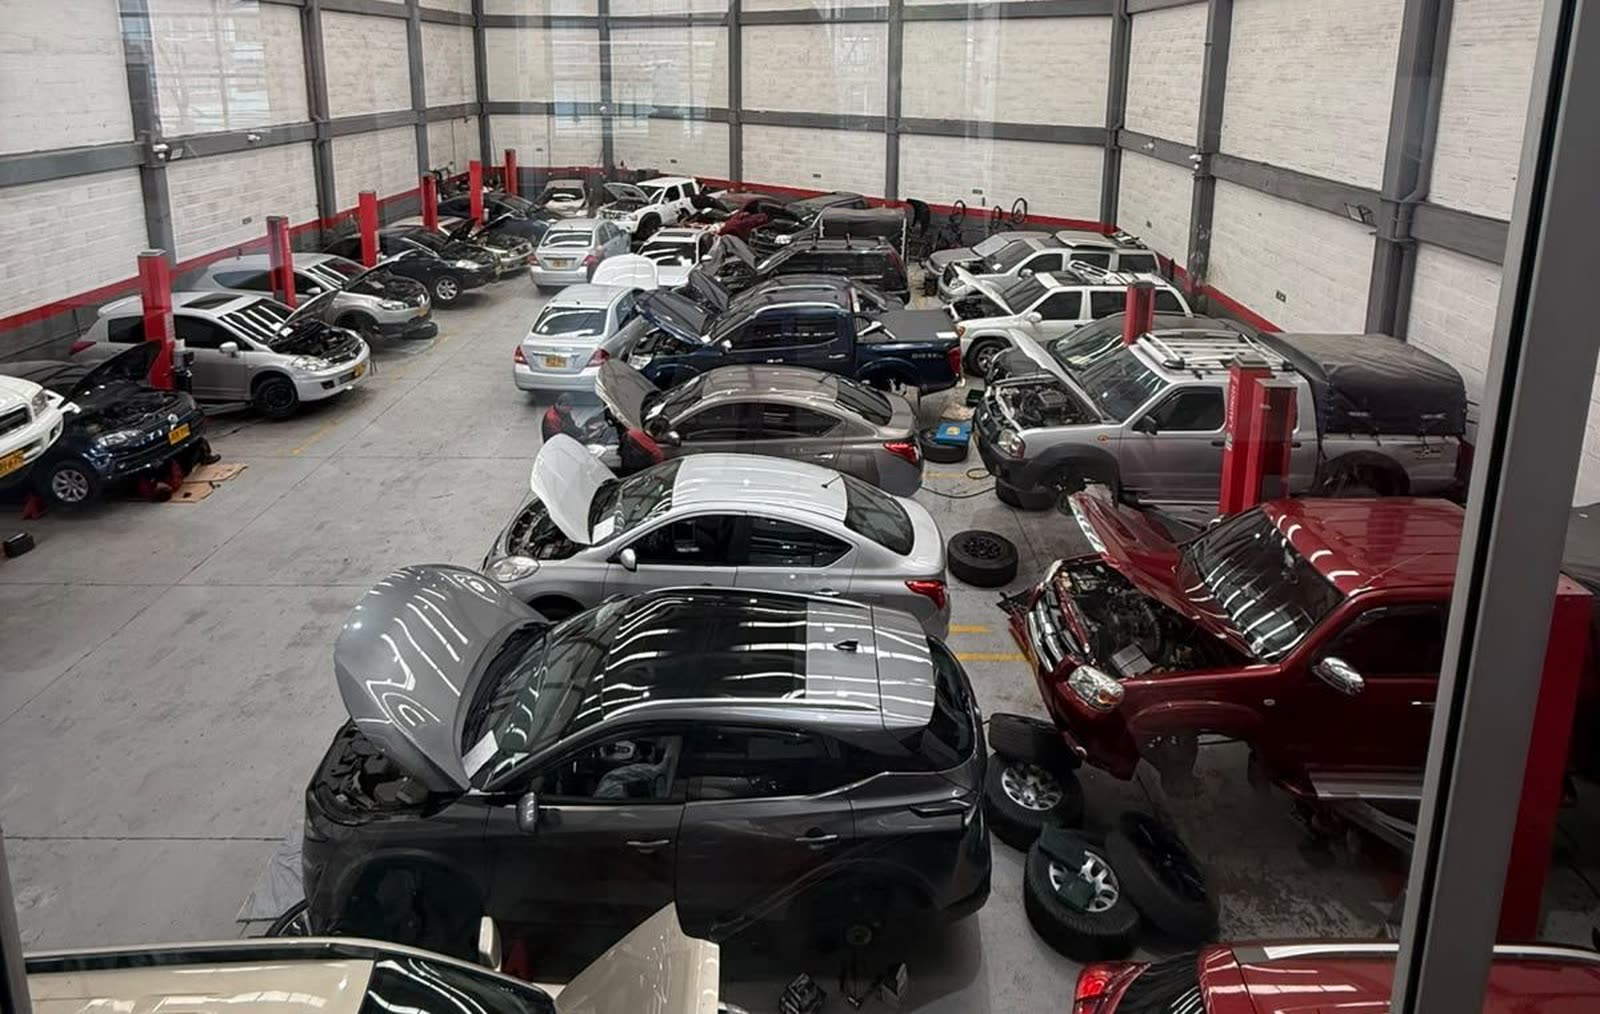
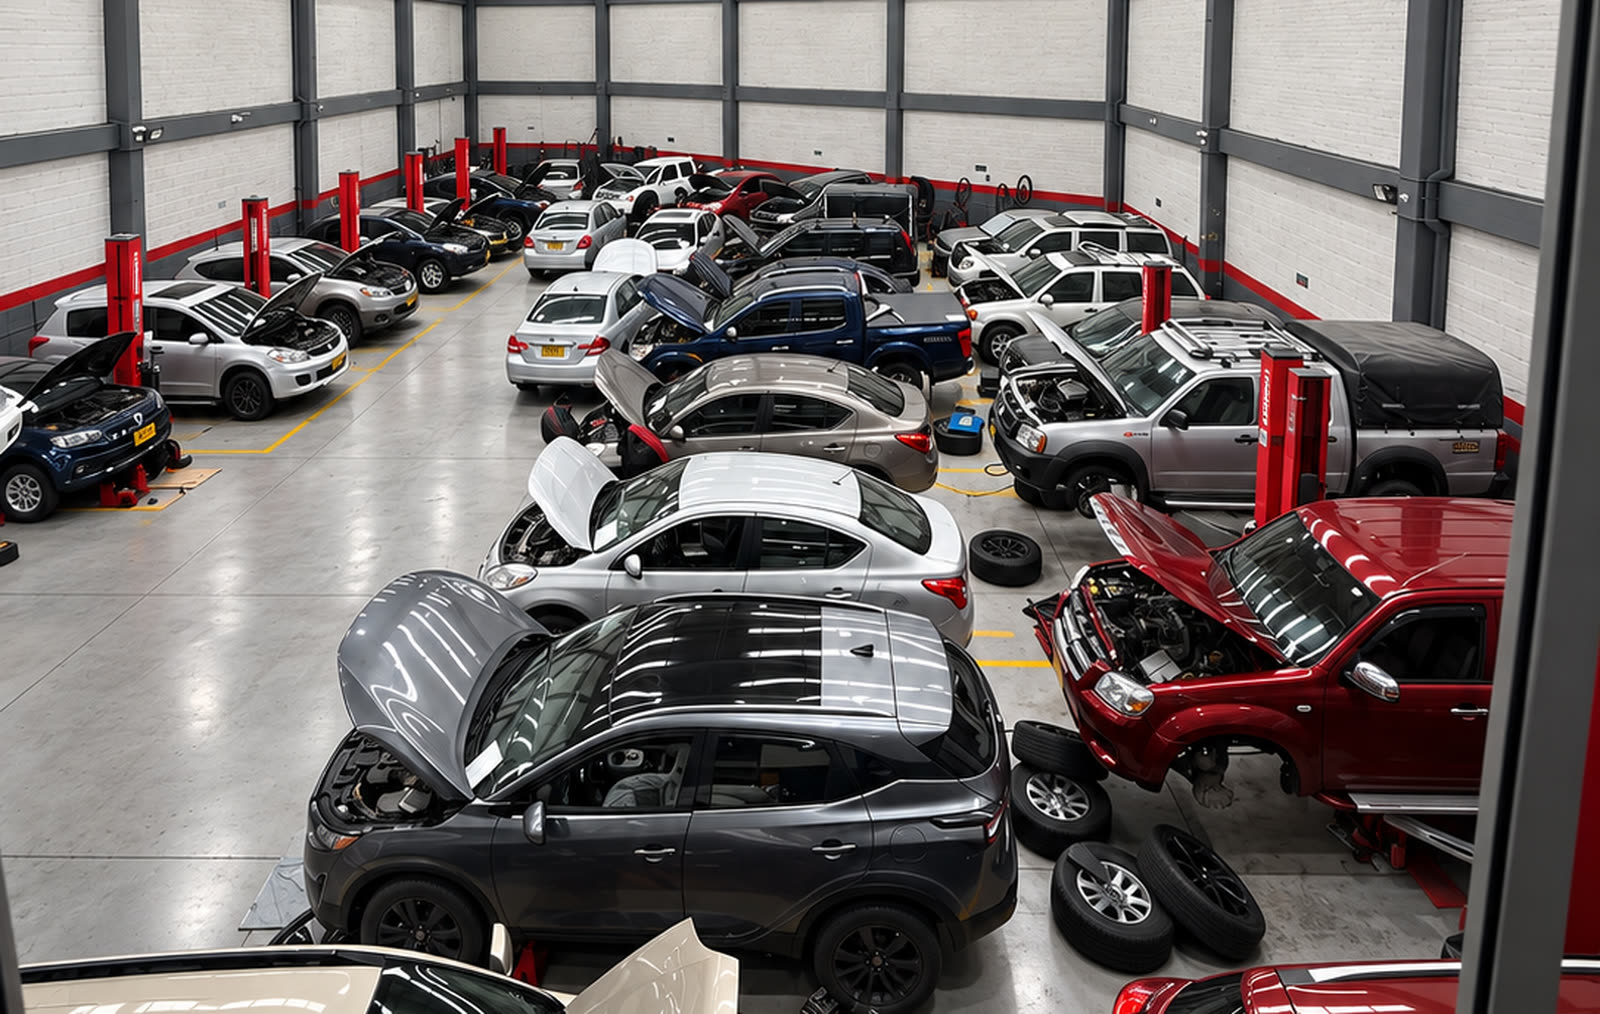
Swap in the retouched photos and turn the CTAs brand red
Replaces the bay, facade and team shots with the owner's retouched versions
(the team one now shows the whole staff) and drops the waiting-room image.
WhatsApp call-to-action buttons now use the brand red; the floating button
stays green, where green reads as the WhatsApp signal.

Claude-Session: https://claude.ai/code/session_014GMneRGxYmBqRQP8rwtT9y

diff --git a/site/index.html b/site/index.html
@@ -144,8 +144,10 @@ section[id]{scroll-margin-top:calc(var(--nav-h) + var(--aviso-h,0px) + 22px)}
   text-align:center;
 }
 .btn svg{width:18px;height:18px;flex:0 0 auto}
-.btn-wa{background:var(--wa);color:#04240F;box-shadow:0 8px 30px -12px rgba(37,211,102,.6)}
-.btn-wa:hover{background:var(--wa-hover);transform:translateY(-2px);box-shadow:0 14px 38px -12px rgba(37,211,102,.7)}
+/* Los llamados a la acción van en el rojo de la marca.
+   El botón flotante se queda verde, porque ahí el verde es la señal de WhatsApp. */
+.btn-wa{background:var(--rojo);color:#FFF3F3;box-shadow:0 8px 30px -12px rgba(225,27,34,.65)}
+.btn-wa:hover{background:#F5232B;transform:translateY(-2px);box-shadow:0 14px 38px -12px rgba(225,27,34,.8)}
 .btn-linea{border-color:rgba(138,144,153,.34);color:var(--luz);background:rgba(22,36,58,.35)}
 .btn-linea:hover{border-color:var(--rojo);color:var(--rojo);transform:translateY(-2px)}
 .btn:focus-visible{outline:2px solid var(--rojo);outline-offset:3px}
@@ -367,13 +369,13 @@ section[id]{scroll-margin-top:calc(var(--nav-h) + var(--aviso-h,0px) + 22px)}
 .destacado h3{font-size:clamp(24px,2.9vw,40px);text-shadow:0 0 46px rgba(225,27,34,.28)}
 .destacado p{margin-top:16px;color:var(--aluminio)}
 .destacado .acciones{margin-top:26px}
-.foto-sala{
-  aspect-ratio:4/3;
-  background-image:url("assets/sala.jpg"),
+.foto-destacado{
+  aspect-ratio:16/9;
+  background-image:url("assets/destacado.jpg"),
     linear-gradient(150deg,#22252B,#0E1013);
-  background-position:center 54%;
+  background-position:center 52%;
 }
-@media (max-width:900px){.destacado{grid-template-columns:1fr}.foto-sala{order:-1}}
+@media (max-width:900px){.destacado{grid-template-columns:1fr}.foto-destacado{order:-1}}
 
 /* ==================== SÍNTOMAS (momento interactivo) ==================== */
 .sintomas{
@@ -485,7 +487,7 @@ section[id]{scroll-margin-top:calc(var(--nav-h) + var(--aviso-h,0px) + 22px)}
   aspect-ratio:3/2;
   background-image:url("assets/equipo.jpg"),
     linear-gradient(135deg,#1B1E23,#0E1013 60%,#17191D);
-  background-position:center 58%;
+  background-position:center;
 }
 .foto-fachada{
   aspect-ratio:16/9;
@@ -498,7 +500,7 @@ section[id]{scroll-margin-top:calc(var(--nav-h) + var(--aviso-h,0px) + 22px)}
   margin-top:13px;font-size:13.5px;color:var(--acero);
   font-family:var(--mono);letter-spacing:.02em;
 }
-@media (max-width:700px){.foto-equipo{aspect-ratio:4/5;background-position:center 62%}}
+@media (max-width:700px){.foto-equipo{aspect-ratio:4/5;background-position:center}}
 
 /* ==================== MAPA ==================== */
 .llegar{display:grid;grid-template-columns:.92fr 1.08fr;gap:clamp(26px,3.4vw,56px);margin-top:clamp(40px,5vw,62px);align-items:start}
@@ -813,7 +815,7 @@ footer .lema{color:var(--aluminio);font-size:14.6px;max-width:34ch;margin-top:14
           </a>
         </div>
       </div>
-      <div class="foto-marco foto-sala" role="img" aria-label="Sala de espera de Tecnissan, con sillas rojas y negras y luz natural"></div>
+      <div class="foto-marco foto-destacado" role="img" aria-label="Vehículo sobre el elevador en una bahía de servicio"></div>
     </div>
   </div>
 </section>
